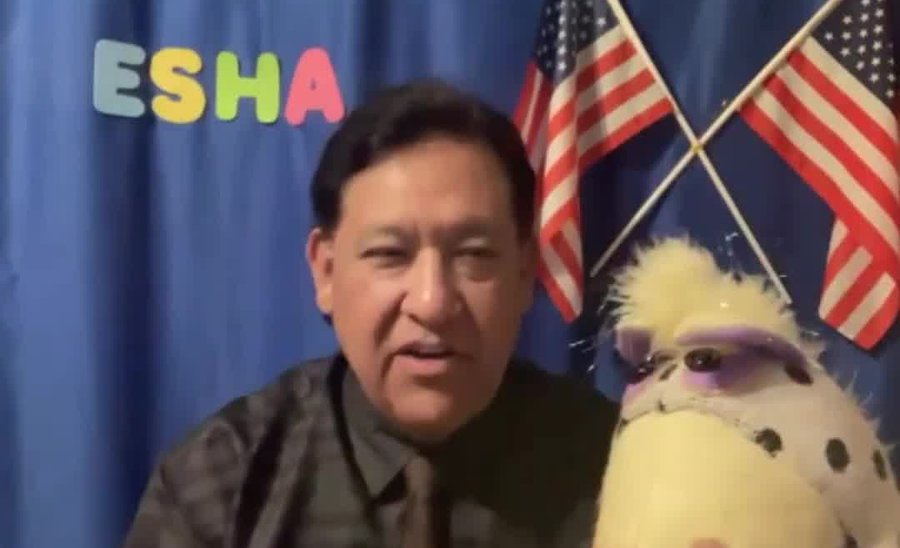
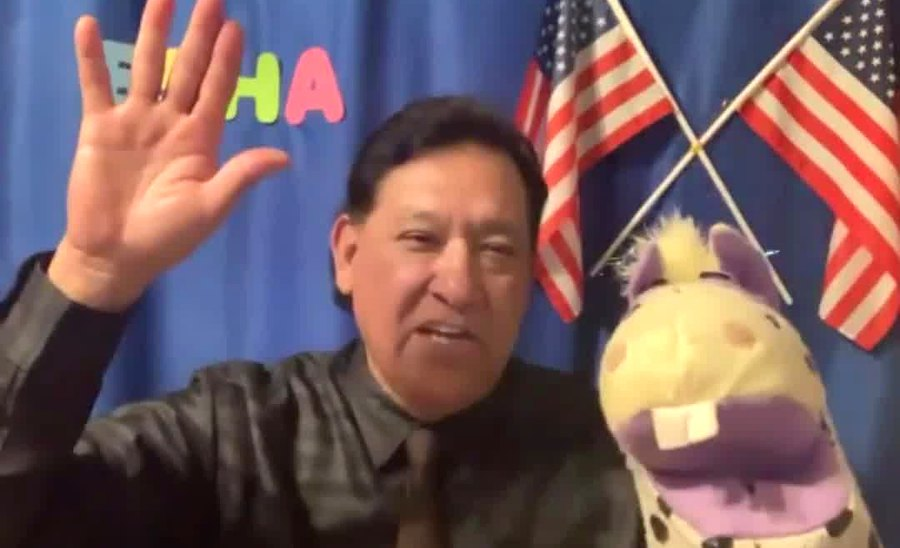
ESHAのクラス写真を、手を振る明るい表情に
Claude-Session: https://claude.ai/code/session_01Y7Jh2TJkNWMmYR3Kf9fkLz

diff --git a/index.html b/index.html
@@ -187,7 +187,7 @@ h1,h2,h3{font-family:'Zen Maru Gothic',sans-serif}
 <p style="margin:12px 0 0;font-family:'Zen Maru Gothic',sans-serif;font-weight:900;font-size:30px">月4コマ 8,800円</p>
 </div>
 <div style="background:#fff;border-radius:24px;padding:28px;border-top:10px solid #3DA9E0">
-<img src="images/photos/class_esha.jpg" alt="Zoomで話すアーニー先生とヒーホー" loading="lazy" style="display:block;width:100%;height:160px;object-fit:cover;border-radius:16px;margin-bottom:16px">
+<img src="images/photos/class_esha.jpg" alt="Zoomで手を振るアーニー先生とヒーホー" loading="lazy" style="display:block;width:100%;height:160px;object-fit:cover;border-radius:16px;margin-bottom:16px">
 <p style="margin:0;font-size:14px;font-weight:700;color:#1F6E99">おうちから参加</p>
 <h3 style="margin:2px 0 12px;font-size:26px">ESHA（オンライン）</h3>
 <p style="margin:0 0 16px;font-size:15px">Zoom でアーニー先生とヒーホーと遊べるクラス。毎回ちがうテーマのお話やゲームを楽しみます。全国どこからでも参加できます。</p>
